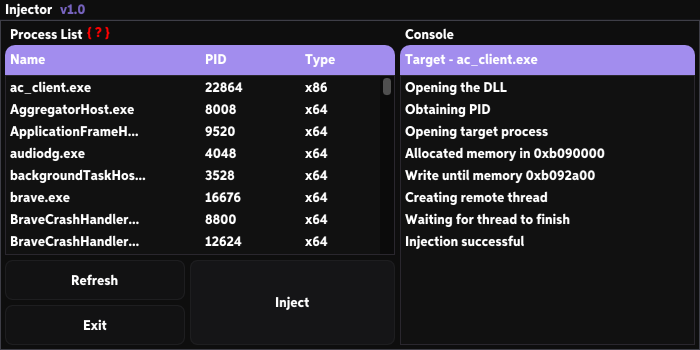
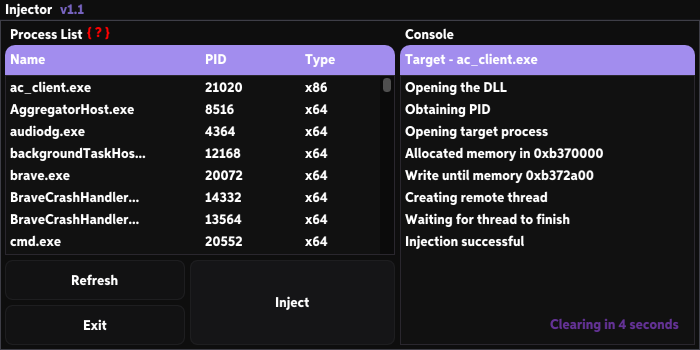
Minor enhancements to the console
- We can now see the counter until the console is cleared
- Minor code improvements for colors

diff --git a/src/gui.cpp b/src/gui.cpp
@@ -19,20 +19,20 @@ namespace draw
 		drawList->AddLine({ 0.f, 19.f }, { 700.f, 19.f }, IM_COL32(22, 22, 26, 255), 1.f);
 	}
 
-	void injectButton(std::vector<std::string>& progress, const std::string& selectedProc, bool& bInjectClicked, static int& counter)
+	void injectButton(std::vector<std::string>& progress, const std::string& selectedProc, bool& bInjectClicked, int& counter)
 	{
 		ImGui::PushStyleVar(ImGuiStyleVar_FrameRounding, 7.f);
 		ImGui::PushStyleVar(ImGuiStyleVar_FrameBorderSize, 1.f);
 
-		ImGui::PushStyleColor(ImGuiCol_Border, ImVec4(ImColor(30, 30, 32, 255)));
+		ImGui::PushStyleColor(ImGuiCol_Border, IM_COL32(30, 30, 32, 255));
 
 		static auto lastInjectClicked{ false };
 
 		if (!selectedProc.empty())
 		{
-			ImGui::PushStyleColor(ImGuiCol_Button, ImVec4(ImColor(21, 21, 23, 255)));
-			ImGui::PushStyleColor(ImGuiCol_ButtonHovered, ImVec4(ImColor(39, 39, 43, 255)));
-			ImGui::PushStyleColor(ImGuiCol_ButtonActive, ImVec4(ImColor(46, 46, 55, 255)));
+			ImGui::PushStyleColor(ImGuiCol_Button, IM_COL32(21, 21, 23, 255));
+			ImGui::PushStyleColor(ImGuiCol_ButtonHovered, IM_COL32(39, 39, 43, 255));
+			ImGui::PushStyleColor(ImGuiCol_ButtonActive, IM_COL32(46, 46, 55, 255));
 
 			ImGui::SetCursorPos({ 190.f, 240.f });
 			if (ImGui::Button("Inject", { 205.f, 85.f }))
@@ -43,12 +43,12 @@ namespace draw
 				const auto dllPath = dialog.getPath();
 
 				Injector injector(dllPath, "ac_client.exe");
-				injector.injectDll();
+				injector.injectDll();//
 
 				progress = injector.getProgress();
 
 				bInjectClicked = true;
-				counter = 5000;
+				counter = 7000;
 				lastInjectClicked = true;
 			}
 			else
@@ -61,9 +61,9 @@ namespace draw
 		}
 		else
 		{
-			ImGui::PushStyleColor(ImGuiCol_Button, ImVec4(ImColor(21, 21, 21, 255)));
-			ImGui::PushStyleColor(ImGuiCol_ButtonHovered, ImVec4(ImColor(21, 21, 23, 255)));
-			ImGui::PushStyleColor(ImGuiCol_ButtonActive, ImVec4(ImColor(60, 21, 23, 255)));
+			ImGui::PushStyleColor(ImGuiCol_Button, IM_COL32(21, 21, 21, 255));
+			ImGui::PushStyleColor(ImGuiCol_ButtonHovered, IM_COL32(21, 21, 23, 255));
+			ImGui::PushStyleColor(ImGuiCol_ButtonActive, IM_COL32(60, 21, 23, 255));
 
 			ImGui::SetCursorPos({ 190.f, 240.f });
 			ImGui::Button("Inject", { 205.f, 85.f });
@@ -80,10 +80,10 @@ namespace draw
 		ImGui::PushStyleVar(ImGuiStyleVar_FrameRounding, 7.f);
 		ImGui::PushStyleVar(ImGuiStyleVar_FrameBorderSize, 1.f);
 
-		ImGui::PushStyleColor(ImGuiCol_Button, ImVec4(ImColor(21, 21, 23, 150)));
-		ImGui::PushStyleColor(ImGuiCol_ButtonHovered, ImVec4(ImColor(31, 31, 33, 200)));
-		ImGui::PushStyleColor(ImGuiCol_ButtonActive, ImVec4(ImColor(38, 38, 40, 255)));
-		ImGui::PushStyleColor(ImGuiCol_Border, ImVec4(ImColor(30, 30, 32, 255)));
+		ImGui::PushStyleColor(ImGuiCol_Button, IM_COL32(21, 21, 23, 150));
+		ImGui::PushStyleColor(ImGuiCol_ButtonHovered, IM_COL32(31, 31, 33, 200));
+		ImGui::PushStyleColor(ImGuiCol_ButtonActive, IM_COL32(38, 38, 40, 255));
+		ImGui::PushStyleColor(ImGuiCol_Border, IM_COL32(30, 30, 32, 255));
 
 		ImGui::SetCursorPos({ 5.f, 285.f });
 		if (ImGui::Button("Exit", { 180.f, 40.f })) {
@@ -94,12 +94,12 @@ namespace draw
 		ImGui::PopStyleColor(4);
 	}
 
-	void console(const std::vector<std::string>& progress, const std::string& selectedProc, bool& bInjectClicked, static int& counter)
+	void console(const std::vector<std::string>& progress, const std::string& selectedProc, bool& bInjectClicked, int& counter)
 	{
 		ImGui::SetCursorPos({ 405.f, 5.f });
 		ImGui::Text("Console");
 
-		ImGui::PushStyleColor(ImGuiCol_ChildBg, ImVec4(ImColor(162, 141, 238, 255)));
+		ImGui::PushStyleColor(ImGuiCol_ChildBg, IM_COL32(162, 141, 238, 255));
 
 		ImGui::PushStyleVar(ImGuiStyleVar_ChildRounding, 10.f);
 
@@ -120,8 +120,8 @@ namespace draw
 			const auto drawList = ImGui::GetWindowDrawList();
 			drawList->AddLine({ 400.f, 77.f }, { 700.f, 77.f }, IM_COL32(97, 82, 115, 255), 1.f);
 
-			ImGui::PushStyleColor(ImGuiCol_ChildBg, ImVec4(ImColor(17, 17, 17, 255)));
-			ImGui::PushStyleColor(ImGuiCol_Border, ImVec4(ImColor(42, 39, 46, 255)));
+			ImGui::PushStyleColor(ImGuiCol_ChildBg, IM_COL32(17, 17, 17, 255));
+			ImGui::PushStyleColor(ImGuiCol_Border, IM_COL32(42, 39, 46, 255));
 
 			ImGui::SetCursorPos({ 0.f, 30.f });
 			ImGui::BeginChild("progressBg", { 295.f, 270.f }, ImGuiChildFlags_Border);
@@ -131,7 +131,7 @@ namespace draw
 					bPrint = true;
 				}
 
-				if (counter == -8)
+				if (counter == 1000)
 				{
 					bPrint = false;
 					bInjectClicked = false;
@@ -146,6 +146,9 @@ namespace draw
 
 						--counter;
 					}
+
+					ImGui::SetCursorPos({ 150.f, 240.f });
+					ImGui::TextColored(ImVec4(ImColor(100, 50, 150, 255)), "Clearing in %d seconds", counter / 1000);
 				}
 
 				ImGui::PopStyleColor(3);
@@ -159,12 +162,9 @@ namespace draw
 
 	[[nodiscard]] std::string processList(const std::set<Process::info>& processInfo)
 	{
-		static std::string selectedProc;
-
 		ImGui::SetCursorPos({ 10.f, 5.f });
 		ImGui::Text("Process List");
 
-		const auto processNum{ processInfo.size() };
 		ImGui::SetCursorPos({ 87.f, 3.f });
 		ImGui::TextColored(ImVec4(ImColor(255, 0, 0, 255)), "{ ? }");
 		if (ImGui::IsItemHovered(ImGuiHoveredFlags_ForTooltip))
@@ -177,17 +177,20 @@ namespace draw
 
 			ImGui::SetCursorPos({ 10.f, 10.f });
 			ImGui::TextWrapped("If you can't find your process, click the Refresh button.");
+
+			const auto processNum{ processInfo.size() };
 			ImGui::SetCursorPos({ 10.f, 50.f });
 			ImGui::TextWrapped("Current running processes: %d", processNum);
 
-			ImGui::EndTooltip();
-
 			ImGui::PopStyleVar();
+			ImGui::EndTooltip();
 		}
+
+		static std::string selectedProc;
 
 		ImGui::PushStyleVar(ImGuiStyleVar_ChildRounding, 10.f);
 
-		ImGui::PushStyleColor(ImGuiCol_ChildBg, ImVec4(ImColor(162, 141, 238, 255)));
+		ImGui::PushStyleColor(ImGuiCol_ChildBg, IM_COL32(162, 141, 238, 255));
 
 		ImGui::SetCursorPos({ 5.f, 25.f });
 		ImGui::BeginChild("ProcessBg", { 390.f, 210.f });
@@ -206,20 +209,20 @@ namespace draw
 			const auto drawList = ImGui::GetWindowDrawList();
 			drawList->AddLine({ 5.f, 77.f }, { 400.f, 77.f }, IM_COL32(97, 82, 115, 255), 1.f);
 
-			ImGui::PushStyleColor(ImGuiCol_ChildBg, ImVec4(ImColor(17, 17, 17, 255)));
-			ImGui::PushStyleColor(ImGuiCol_Border, ImVec4(ImColor(42, 39, 46, 255)));
+			ImGui::PushStyleColor(ImGuiCol_ChildBg, IM_COL32(17, 17, 17, 255));
+			ImGui::PushStyleColor(ImGuiCol_Border, IM_COL32(42, 39, 46, 255));
 
 			ImGui::SetCursorPos({ 0.f, 30.f });
 			ImGui::BeginChild("runningProcBg", { 390.f, 180.f }, ImGuiChildFlags_Border);
 			{
-				ImGui::PushStyleColor(ImGuiCol_HeaderHovered, ImVec4(ImColor(0, 85, 89, 200)));
-				ImGui::PushStyleColor(ImGuiCol_HeaderActive, ImVec4(ImColor(0, 85, 89, 255)));
+				ImGui::PushStyleColor(ImGuiCol_HeaderHovered, IM_COL32(0, 85, 89, 200));
+				ImGui::PushStyleColor(ImGuiCol_HeaderActive, IM_COL32(0, 85, 89, 255));
 
 				ImGui::SetCursorPosY(3.f);
 				for (const auto& proc : processInfo)
 				{
-					const std::string truncatedName = (strlen(proc.name) > 20) ? std::string(proc.name).substr(0, 20 - 3) + "..."
-						: std::string(proc.name);
+					const auto truncatedName = (strlen(proc.name) > 20) ? std::string(proc.name).substr(0, 20 - 3) + "..."
+					                                                           : std::string(proc.name);
 
 					ImGui::SetCursorPosX(5.f);
 					if (ImGui::Selectable(truncatedName.c_str())) {
@@ -251,10 +254,10 @@ namespace draw
 		ImGui::PushStyleVar(ImGuiStyleVar_FrameRounding, 7.f);
 		ImGui::PushStyleVar(ImGuiStyleVar_FrameBorderSize, 1.f);
 
-		ImGui::PushStyleColor(ImGuiCol_Button, ImVec4(ImColor(21, 21, 23, 150)));
-		ImGui::PushStyleColor(ImGuiCol_ButtonHovered, ImVec4(ImColor(31, 31, 33, 200)));
-		ImGui::PushStyleColor(ImGuiCol_ButtonActive, ImVec4(ImColor(38, 38, 40, 255)));
-		ImGui::PushStyleColor(ImGuiCol_Border, ImVec4(ImColor(30, 30, 32, 255)));
+		ImGui::PushStyleColor(ImGuiCol_Button, IM_COL32(21, 21, 23, 150));
+		ImGui::PushStyleColor(ImGuiCol_ButtonHovered, IM_COL32(31, 31, 33, 200));
+		ImGui::PushStyleColor(ImGuiCol_ButtonActive, IM_COL32(38, 38, 40, 255));
+		ImGui::PushStyleColor(ImGuiCol_Border, IM_COL32(30, 30, 32, 255));
 
 		ImGui::SetCursorPos({ 5.f, 240.f });
 		if (ImGui::Button("Refresh", { 180.f, 40.f })) {
@@ -309,7 +312,7 @@ void render::Render() noexcept
 		static std::vector<std::string> progress;
 
 		static auto bInjectClicked{ false };
-		static auto counter{ 5000 };
+		static auto counter{ 7000 };
 
 		draw::injectButton(progress, selectedProc, bInjectClicked, counter);
 		draw::console(progress, selectedProc, bInjectClicked, counter);
@@ -318,5 +321,6 @@ void render::Render() noexcept
 
 		ImGui::EndChild();
 	}
+
 	ImGui::End();
 }
